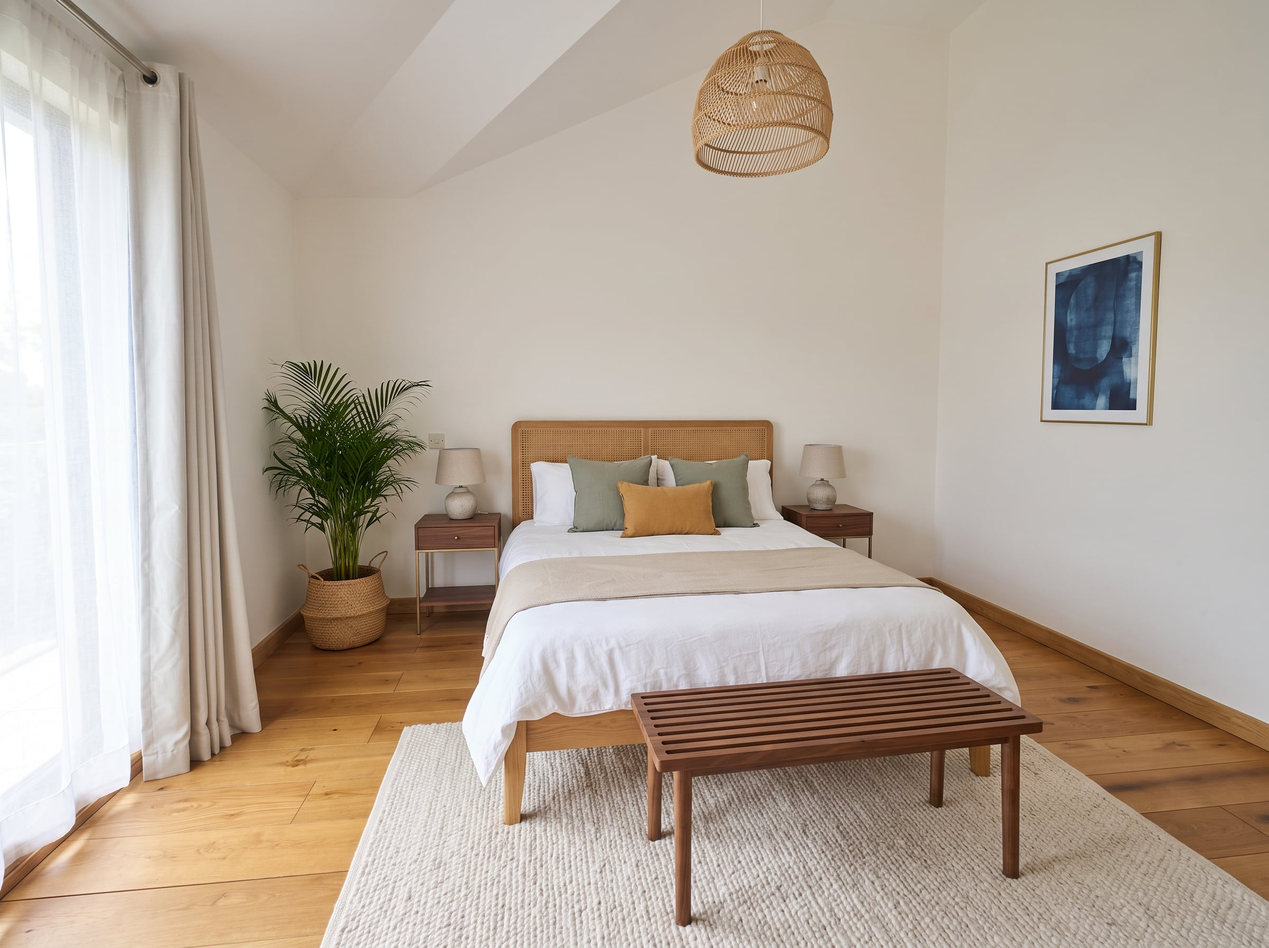
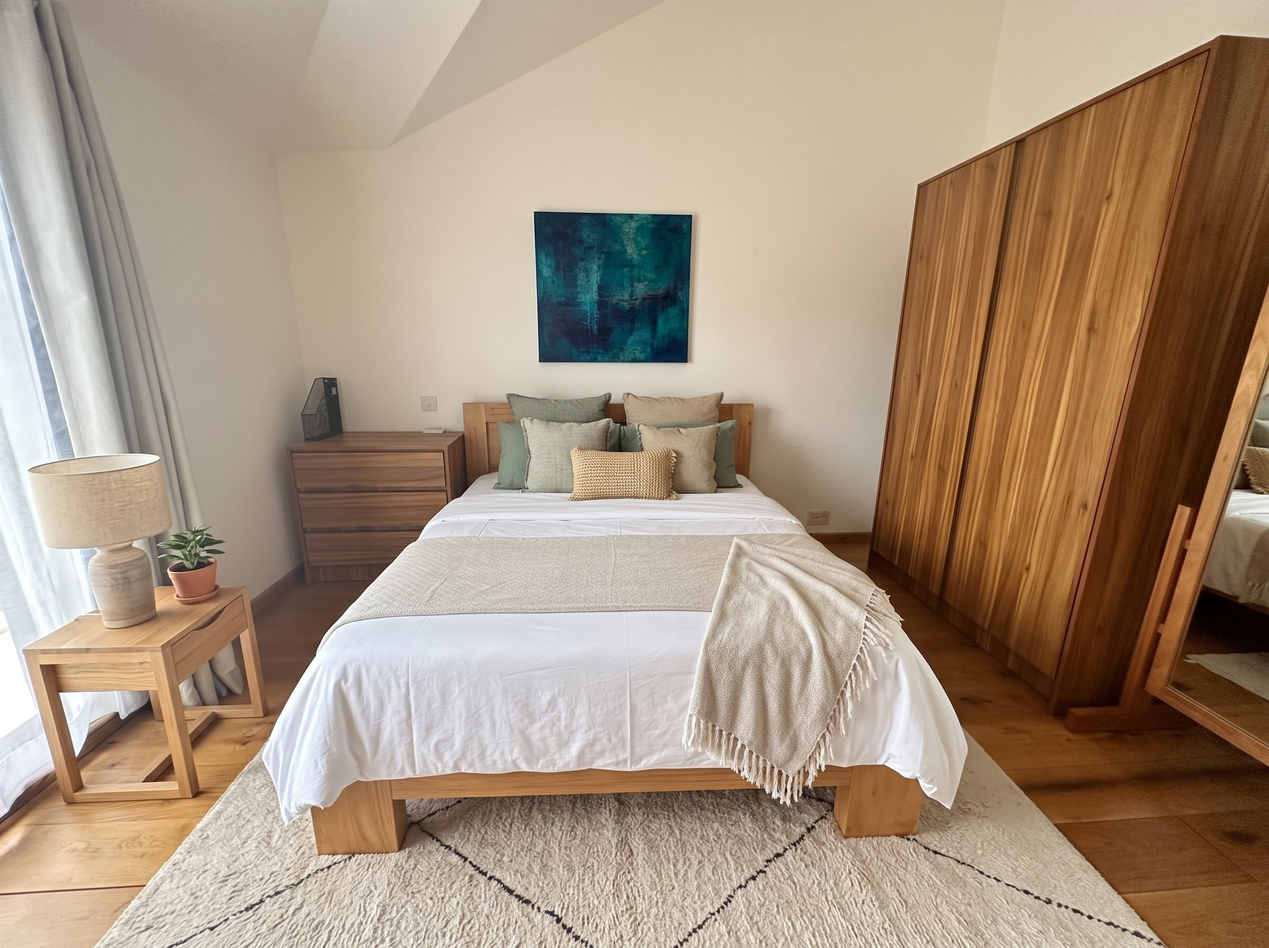
Met en scène les cinq chambres et l'entrée
Quatre vues générées depuis leur propre photographie, l'architecture verrouillée
dans la consigne : cadrage, ouvertures, sols, plafonds et menuiserie fixe
inchangés, seuls le mobilier, les textiles et la décoration varient. Chaque
image a été comparée à son original avant d'être branchée.

- `rez-entree-01` — console et miroir rond sous l'escalier, tapis de couloir,
  lanterne, frangipaniers. Porte à imposte, escalier tournant et parquet à
  bâtons rompus conservés ; la chaise parasite du premier plan disparaît.
- `etage-chambre3-01` — refaite. La version précédente montrait une autre
  pièce ; celle-ci garde le rampant, la fenêtre à gauche et la grande armoire
  en bois massif contre le mur de droite.
- `etage-chambre4-01` — armoire, miroir psyché, porte bois et suspension rotin
  en place ; lit habillé, tapis, olivier en panier.
- `etage-chambre5-01` — climatiseur, store haut et chevets conservés ; literie
  refaite, deux liseuses, cadre au mur.

La visite de la villa passe de 8 à 12 comparateurs, sur onze pièces. Les cinq
chambres sont désormais couvertes.

Restent trois vues demandées : arrière-cuisine, salon de la seconde unité et
jardin clos. Le solde de crédits de génération ne permettait pas d'aller
au-delà.

Claude-Session: https://claude.ai/code/session_01GLMPFbRVUS8k9ZVT5hQC7U

diff --git a/src/tour/photos.js b/src/tour/photos.js
@@ -66,6 +66,7 @@ export const TOUR = [
           fr: 'Hall d’entrée — porte en bois massif à imposte vitrée, parquet à bâtons rompus',
           en: 'Entrance hall — solid timber door with a glazed transom, herringbone parquet',
         },
+        staged: 'rez-entree-01.jpg',
       },
       {
         file: 'rez-entree-02.jpg',
@@ -285,6 +286,7 @@ export const TOUR = [
           fr: 'Armoire et commode en bois massif, sous rampant',
           en: 'Solid timber wardrobe and chest of drawers, under the slope',
         },
+        staged: 'etage-chambre3-01.jpg',
       },
     ],
   },
@@ -300,6 +302,7 @@ export const TOUR = [
           fr: 'Armoire, miroir psyché et grande porte en bois',
           en: 'Wardrobe, cheval mirror and a tall timber door',
         },
+        staged: 'etage-chambre4-01.jpg',
       },
     ],
   },
@@ -315,6 +318,7 @@ export const TOUR = [
           fr: 'Chambre sous rampant, climatiseur, chevets de part et d’autre',
           en: 'Bedroom under the slope, air conditioning, bedside tables either side',
         },
+        staged: 'etage-chambre5-01.jpg',
       },
     ],
   },

diff --git a/docs/home-staging.md b/docs/home-staging.md
@@ -21,15 +21,18 @@ référencée.
 
 ## État actuel
 
-**Branchées (8 vues, 7 pièces)** — séjour (2 vues), salle à manger, cuisine,
-chambre du rez, salon d'étage, terrasse d'étage, chambre 2.
+**Branchées (12 vues, 11 pièces)** — entrée et escalier, séjour (2 vues),
+salle à manger, cuisine, chambre du rez, salon d'étage, terrasse d'étage,
+chambre 2, chambre 3, chambre 4, chambre 5. Les cinq chambres de la villa
+sont couvertes.
 
-**Écartée** — `staged/etage-chambre3-01.jpg` ne correspond pas à la pièce.
-L'original est une chambre sous rampant, fenêtre et grande armoire en bois
-massif à droite ; l'image montre une autre géométrie, fenêtre à gauche et sans
-armoire. À refaire.
+`staged/etage-chambre3-01.jpg` a été **refaite** : la version précédente
+montrait une autre pièce — fenêtre à gauche, pas d'armoire. La nouvelle
+conserve le rampant, la fenêtre à gauche et la grande armoire en bois massif
+contre le mur de droite.
 
-**À produire (10 vues)** — voir les consignes ci-dessous.
+**À produire (3 vues)** — arrière-cuisine, salon de la seconde unité, jardin
+clos. Consignes ci-dessous.
 
 ## Consignes de génération
 
@@ -54,14 +57,23 @@ Préambule commun à toutes les consignes :
 
 | Vue | Ce qui doit rester | Mise en scène demandée |
 | :--- | :--- | :--- |
-| `rez-entree-01` | Porte d'entrée bois massif à imposte vitrée à gauche, escalier tournant blanc à balustres bois montant à droite, parquet à bâtons rompus foncé | Console fine sous l'escalier, grand miroir, tapis de couloir, lanterne, bouquet de frangipaniers. L'arrivée doit donner le ton. |
 | `rez-buanderie-01` | Couloir étroit, carreaux de ciment à motifs, fenêtre à cadre bleu, plan de travail bois et lave-linge à droite, étagères ouvertes à gauche, porte de service au fond | Tout désencombrer (cartons, sacs, bacs plastique, bouilloire). Paniers en fibre alignés, linge plié, panier à linge, une plante. Une buanderie rangée se lit comme un rangement, pas comme un débarras. |
-| `etage-chambre3-01` | Rampant à gauche, fenêtre et rideau clair à gauche, **grande armoire bois massif à droite**, commode à gauche du lit, parquet chêne clair | Lit habillé en lin blanc, plaid, deux chevets assortis, lampe, tapis berbère, une toile bleue au mur. Reprise de l'image ratée. |
-| `etage-chambre4-01` | Rampant, armoire bois haute à droite du lit, miroir psyché, porte bois foncé à droite, suspension rotin, parquet chêne | Lit en lin, coussins, plaid, tapis clair, chevets, plante en pot. |
-| `etage-chambre5-01` | Rampant, petite fenêtre haute et store gris à gauche, climatiseur mural, porte bois foncé à droite, deux petits chevets bois, parquet chêne | Literie repassée, tête de lit textile, coussins, liseuses, tapis. Faire disparaître l'aspect « lit défait ». |
-| `etage-sdb-01` | Carrelage grand format effet marbre, douche à l'italienne vitrée à gauche, baignoire à droite sous la fenêtre, WC, vasque, sol beige | Désencombrer le plan (panier noir, câbles). Serviettes roulées, peignoir, savon, plateau, orchidée, tapis de bain. |
-| `etage-sde-01` | Armoire de toilette miroir, vasque sur plan maçonné, WC suspendu, grande douche vitrée, fenêtre à cadre bleu, faïence blanche | Serviettes assorties, distributeur, plante, tapis. Volumétrie strictement conservée. |
 | `annexe-salon-01` | Parquet foncé, grande baie acier noir sur le jardin et la clôture bois, fenêtre haute étroite à droite, applique murale | Déjà meublé : affiner. Tapis pour asseoir les fauteuils, table basse habillée, coussins, rideaux mieux tombés, une toile au mur nu. |
+
+Deux pièces d'eau restent hors périmètre pour l'instant — la salle de bains
+(`etage-sdb-01`) et la salle d'eau d'étage (`etage-sde-01`) —, la demande
+portant sur les chambres, l'arrière-cuisine, la seconde unité, l'entrée et le
+jardin. Leur consigne serait la même : désencombrer, serviettes assorties,
+plante, tapis, volumétrie strictement conservée.
+
+Consignes déjà utilisées, conservées pour référence :
+
+| Vue | Ce qui devait rester | Mise en scène appliquée |
+| :--- | :--- | :--- |
+| `rez-entree-01` | Porte d'entrée bois massif à imposte vitrée à gauche, escalier tournant à balustres bois montant à droite, parquet à bâtons rompus foncé | Console sous l'escalier, miroir rond en rotin, tapis de couloir, lanterne, frangipaniers, palmier en pot. Chaise parasite retirée. |
+| `etage-chambre3-01` | Rampant à gauche, fenêtre et rideau clair à gauche, **grande armoire bois massif à droite**, commode à gauche du lit, parquet chêne clair | Lit en lin blanc, plaid, coussins, chevet et lampe, tapis berbère, toile bleue au-dessus du lit. |
+| `etage-chambre4-01` | Rampant, armoire bois haute à droite du lit, miroir psyché, porte bois foncé à droite, suspension rotin, parquet chêne | Lit en lin, coussins, plaid, tapis clair, lampe, cadre au mur, olivier en panier. |
+| `etage-chambre5-01` | Rampant, petite fenêtre haute et store gris à gauche, climatiseur mural, porte bois foncé à droite, deux petits chevets bois, parquet chêne | Literie refaite, tête de lit bois, coussins, deux liseuses, cadre au mur, tapis. |
 
 ### Extérieurs
 
